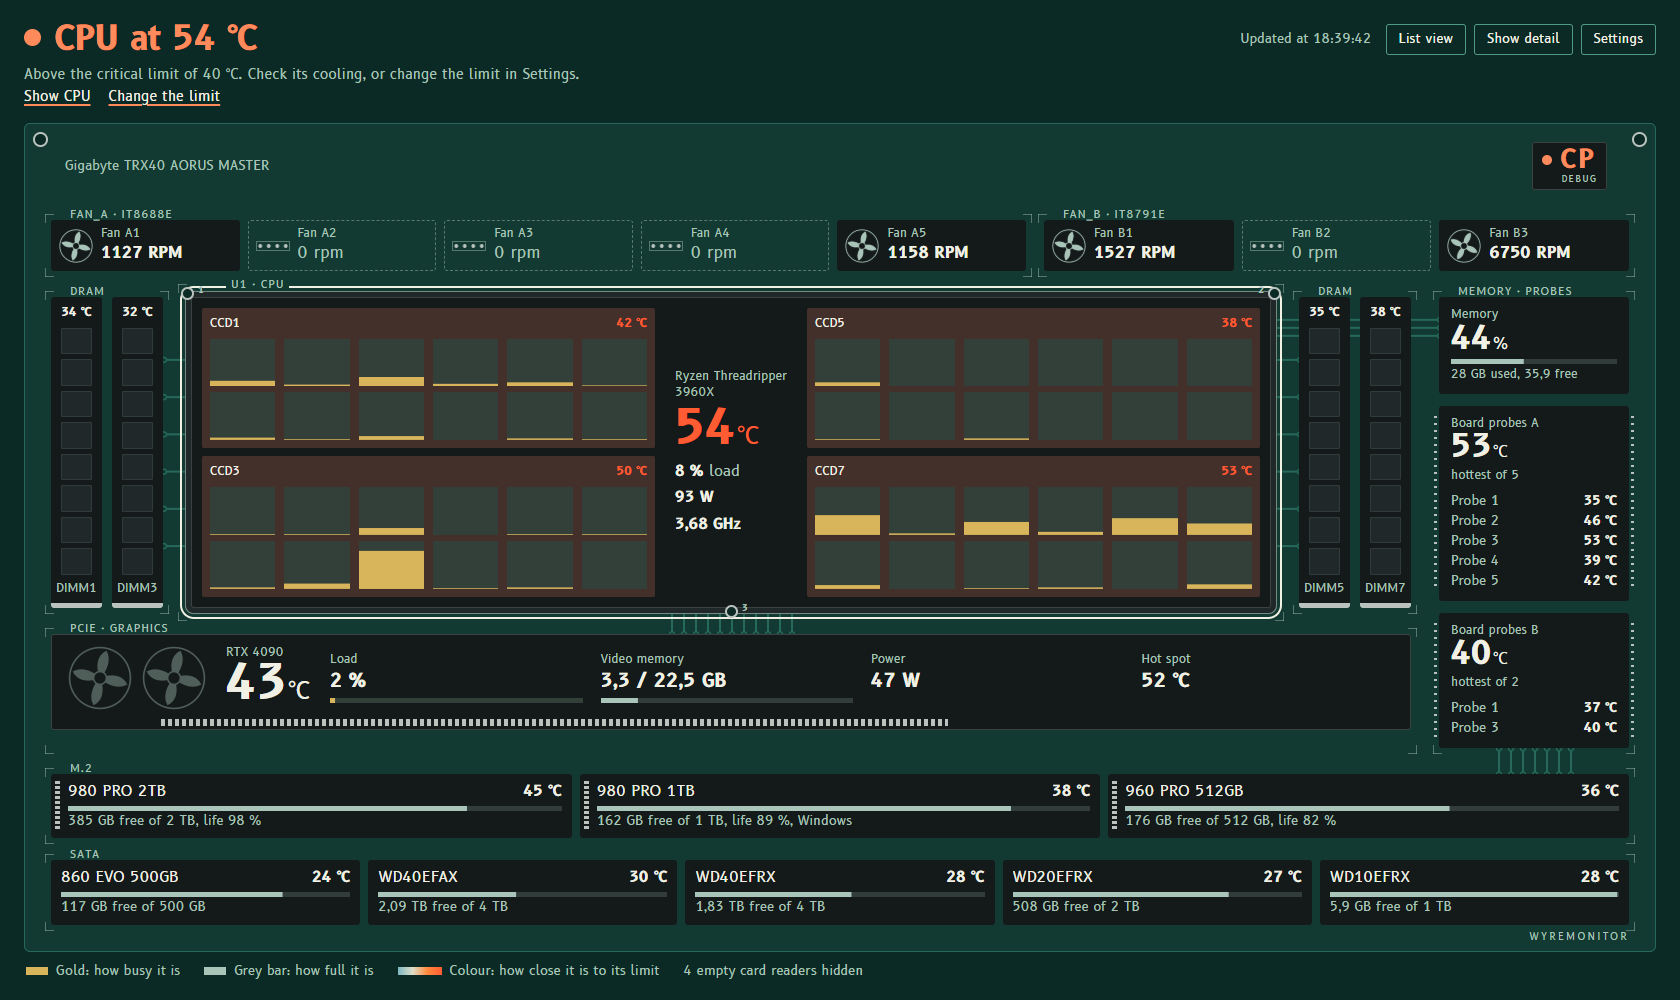
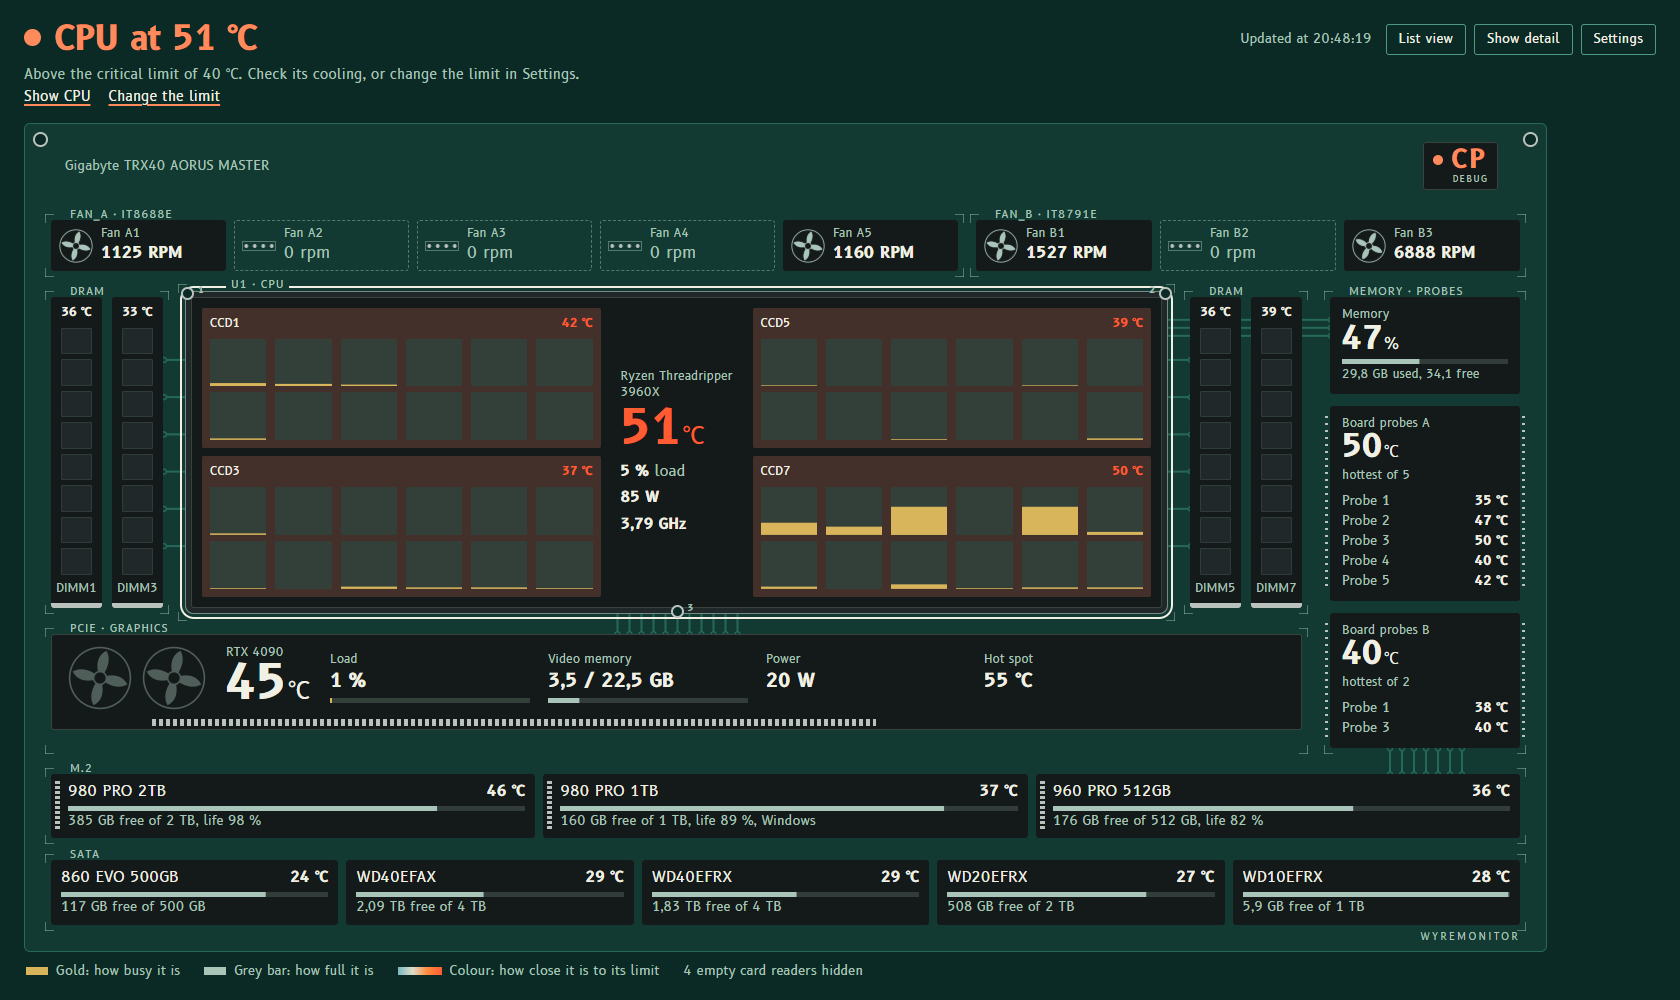
README: board sized to its parts, fresh pictures
Claude-Session: https://claude.ai/code/session_01UgKrHNY1LCn14xc1MPdLBK

diff --git a/README.md b/README.md
@@ -27,7 +27,8 @@ part where it sits on the board and answers the question you opened it for:
 - **Limits per part.** Colour shows how close each reading is to *that part's* limit:
   45 °C is fine for a CPU and a lot for a hard disk.
 - **The real layout.** Ryzen and Threadripper chiplets each get their own temperature, and every
-  thread has its own load bar. Memory modules sit beside the socket, drives below.
+  thread has its own load bar. Memory modules sit beside the socket, drives below. The board
+  takes the room its parts need: a small office PC gets a small board, a workstation a big one.
 - **Every sensor, when you want it.** Click any part to see all its readings and a chart of the
   last 1, 5 or 15 minutes.
 - **Read at a glance.** Gold pads show how busy a part is, grey bars how full, and the colour of
